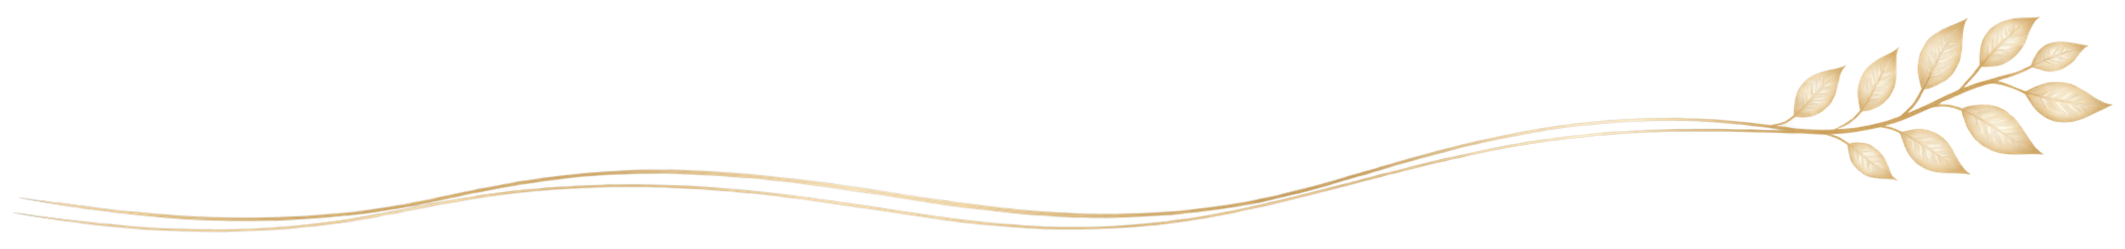
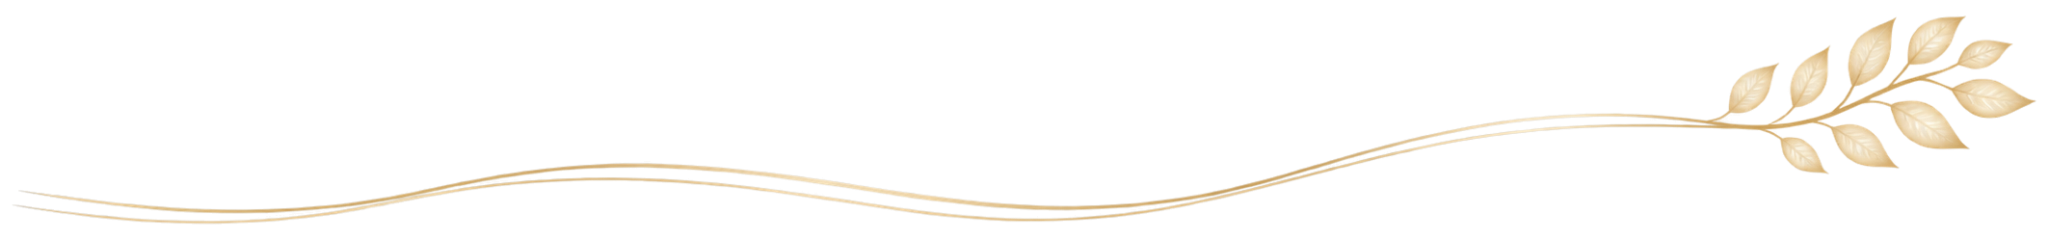
Add files via upload

diff --git a/admin.css b/admin.css
@@ -6241,3 +6241,36 @@ body.admin-body .admin-table {
   #dashboard .dashboard-trip-select strong{font-size:13px}
   #dashboard .dashboard-trip-select-count{font-size:13px}
 }
+
+
+/* v68｜管理總覽左側「出團行程統計」標題加入使用者提供的金色枝條素材 */
+#dashboard .dashboard-trip-list-panel > .dashboard-panel-heading{
+  position:relative !important;
+  isolation:isolate;
+  overflow:visible !important;
+  min-height:48px;
+}
+#dashboard .dashboard-trip-list-panel > .dashboard-panel-heading::after{
+  content:"";
+  position:absolute;
+  z-index:-1;
+  right:-2px;
+  top:-13px;
+  width:min(62%,260px);
+  height:58px;
+  background-image:url("registration-title-gold-branch-v49.png?v=20261127-v68");
+  background-repeat:no-repeat;
+  background-position:right center;
+  background-size:100% auto;
+  opacity:.82;
+  pointer-events:none;
+}
+#dashboard .dashboard-trip-list-panel > .dashboard-panel-heading h3{
+  position:relative;
+  z-index:1;
+}
+@media(max-width:640px){
+  #dashboard .dashboard-trip-list-panel > .dashboard-panel-heading::after{
+    width:58%;height:48px;top:-8px;opacity:.72;
+  }
+}

diff --git a/admin.html b/admin.html
@@ -10,7 +10,7 @@
 
   <title>管理後台｜囍莉旅遊</title>
   
-<link rel="stylesheet" href="admin.css?v=20261127-dashboard-trip-stats-v66">
+<link rel="stylesheet" href="admin.css?v=20261127-dashboard-trip-stats-v68">
 </head>
 
 <body class="admin-body">
@@ -704,7 +704,7 @@
   </main>
 
 
-  <script src="admin.js?v=20261127-dashboard-trip-stats-v66"></script>
+  <script src="admin.js?v=20261127-dashboard-trip-stats-v68"></script>
 
 </body>
 </html>
